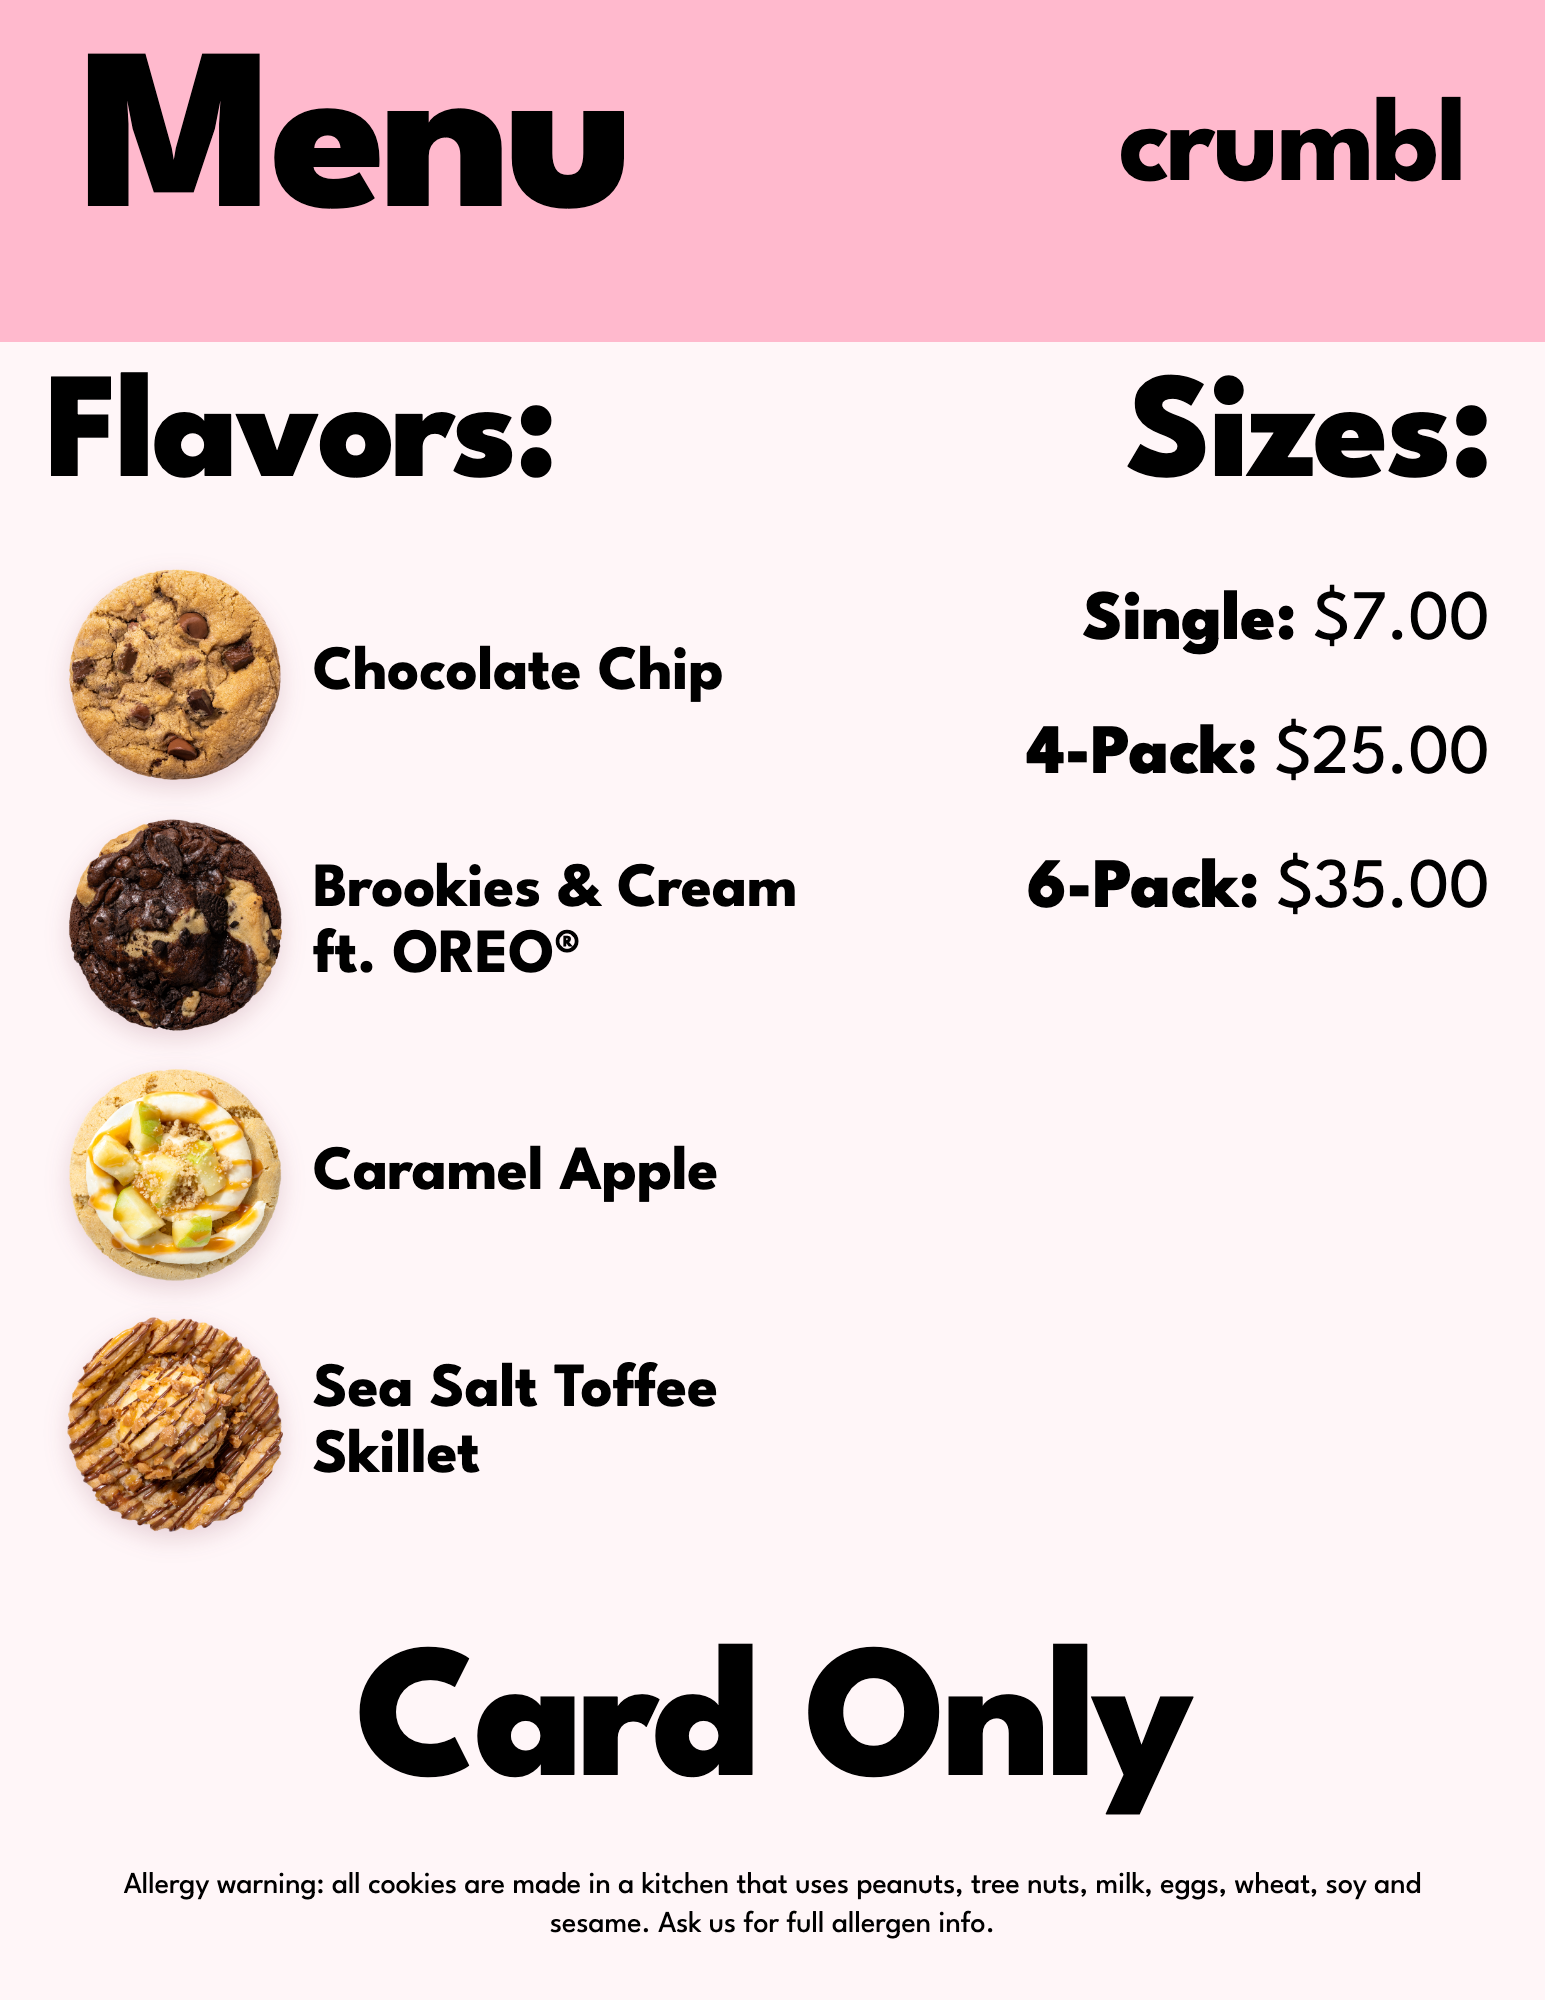
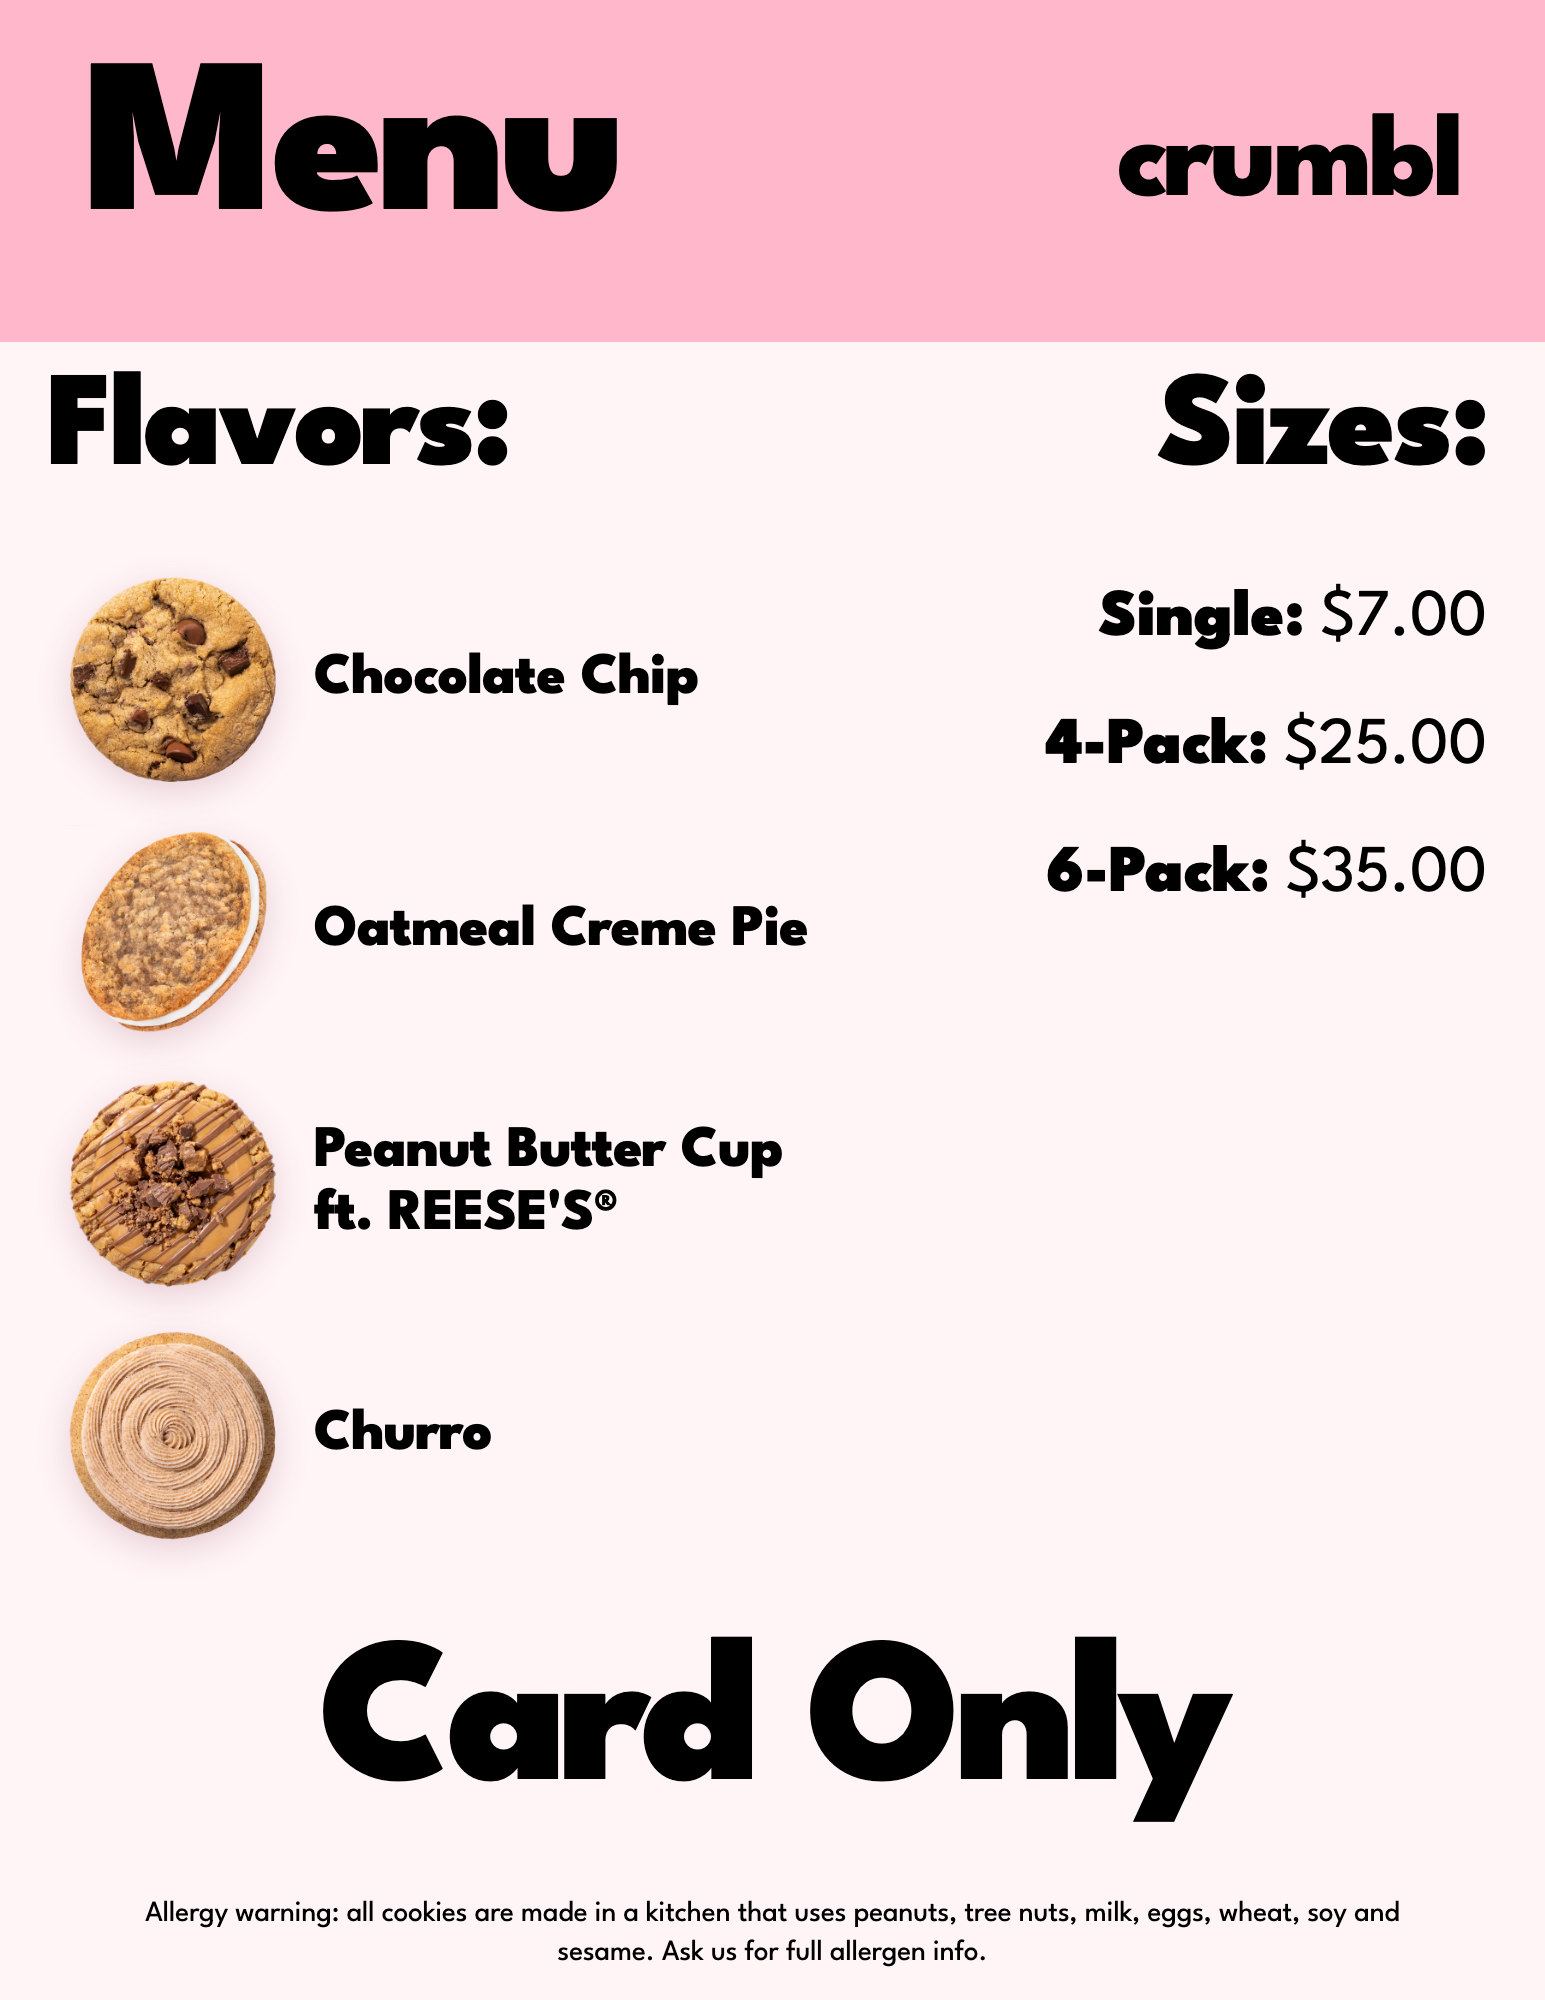
Event menu: Sat 11/14 symphony + homecoming flavors (CC, Oatmeal Creme Pie, PB Cup, Churro)
Claude-Session: https://claude.ai/code/session_01Mz1MdVHvbzqVr2ZdjWwdaz

diff --git a/menu/index.html b/menu/index.html
@@ -26,7 +26,7 @@ html,body{margin:0;background:#fff6f8;color:#000;font-family:"League Spartan","H
 <body>
 <!-- Event menu for NFC taps: the page is just menu.png (Stock 11-07: "look exactly like the menu"). Next event: swap menu.png AND bump the ?v= date on its src, or phones keep showing the old cached image. The tag URL never changes. -->
 <main class="page">
-<img class="menu" src="menu.png?v=2026-11-07" alt="Crumbl menu. Flavors: Chocolate Chip, Brookies &amp; Cream ft. OREO®, Caramel Apple, Sea Salt Toffee Skillet. Sizes: Single $7.00, 4-Pack $25.00, 6-Pack $35.00. Card only. Made in a kitchen that uses peanuts, tree nuts, milk, eggs, wheat, soy and sesame.">
+<img class="menu" src="menu.png?v=2026-11-14" alt="Crumbl menu. Flavors: Chocolate Chip, Oatmeal Creme Pie, Peanut Butter Cup ft. REESE’S®, Churro. Sizes: Single $7.00, 4-Pack $25.00, 6-Pack $35.00. Card only. Made in a kitchen that uses peanuts, tree nuts, milk, eggs, wheat, soy and sesame.">
 </main>
 </body>
 </html>
